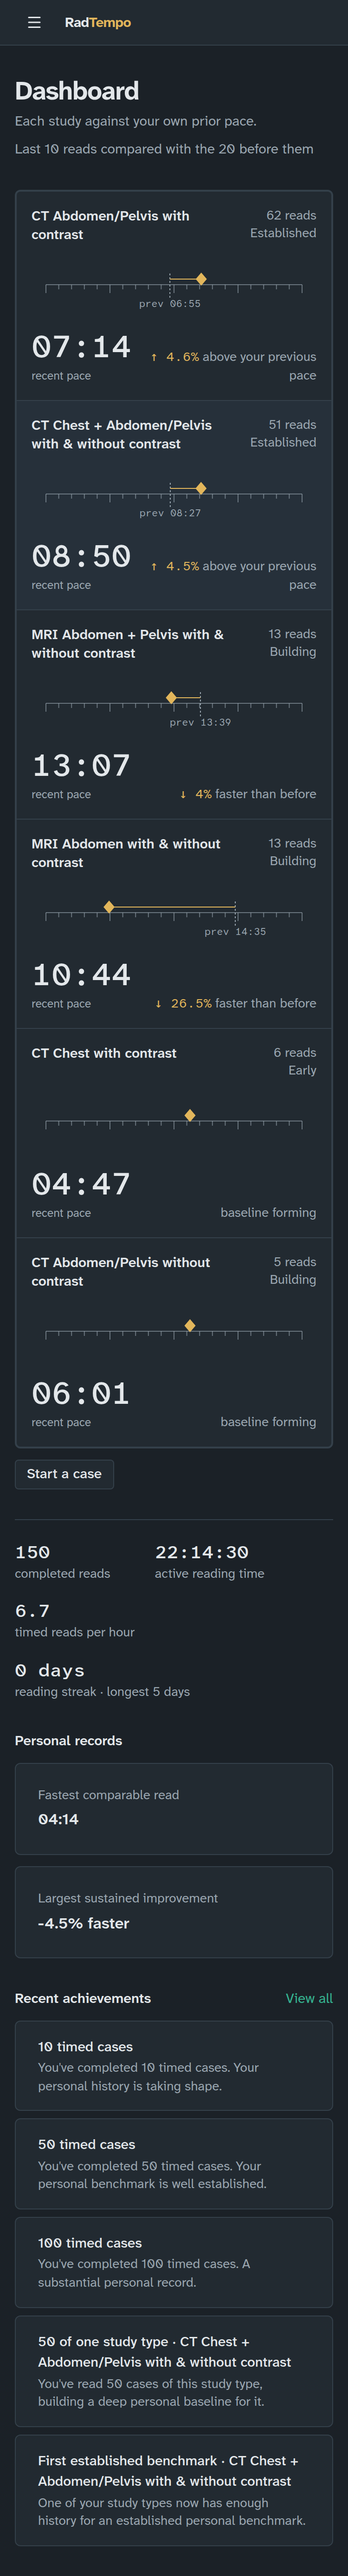
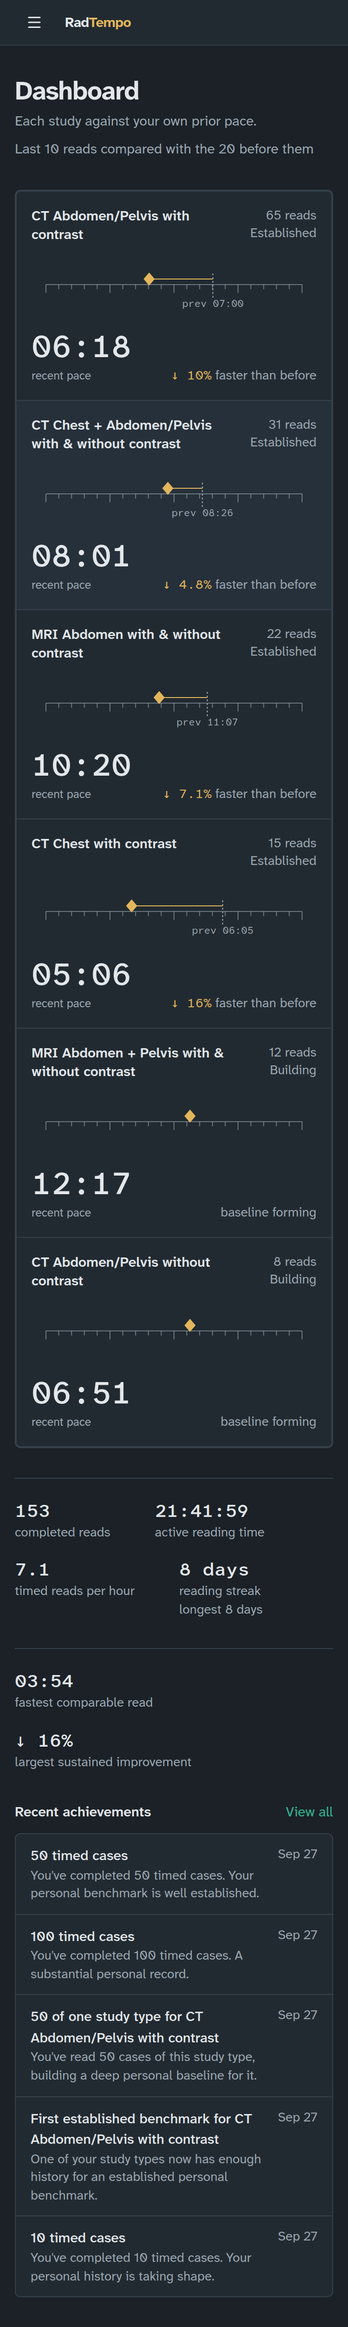
Dashboard: records, achievements, demo data fixes
Redesign the Dashboard's lower half in the Reading Room language
instead of the SaaS-card kit: personal records become a ruled strip
(mono value over label, matching the overview strip) and recent
achievements become a single hairline list with the date in the
corner, dropping the middle-dot "A · B" join in favor of "for
<study>" or a line break. The floating "Start a case" button under
the grid is removed (the rail nav already has Start).

Fix a bug in personalRecords (src/features/achievements/evaluate.ts):
"largest sustained improvement" could report a negative value (got
slower) when no study had a positive sustained improvement, because
the established-study comparison didn't require improvement > 0. Now
only a genuine improvement is reported; the dashboard falls back to
"no sustained improvement yet" otherwise. Added a regression test.

Re-seeded demo data with a deterministic, windowed dataset (headline
CT A/P +C exactly 10% faster, most other studies improving, 8-day
reading streak through today) and re-captured
docs/design/after/dashboard-{desktop,mobile}-{light,dark}.png; viewed
each, no console errors.

diff --git a/src/app/(app)/dashboard/page.tsx b/src/app/(app)/dashboard/page.tsx
@@ -11,6 +11,11 @@ import { Viewport, ViewportGrid } from "@/components/viewport";
 import { Caliper } from "@/components/caliper";
 import { Duration } from "@/components/duration";
 
+const achievementDateFormatter = new Intl.DateTimeFormat("en-US", {
+  month: "short",
+  day: "numeric",
+});
+
 const MATURITY_LABEL: Record<string, string> = {
   NONE: "No history yet",
   EARLY: "Early",
@@ -129,11 +134,6 @@ export default async function DashboardPage() {
             );
           })}
         </ViewportGrid>
-        <div className="mt-3">
-          <Button asChild variant="secondary" size="sm">
-            <Link href="/">Start a case</Link>
-          </Button>
-        </div>
       </section>
 
       <section
@@ -166,44 +166,41 @@ export default async function DashboardPage() {
             {overview.readingDayStreak.current === 1 ? "" : "s"}
           </Duration>
           <p className="text-xs text-muted">
-            reading streak · longest {overview.readingDayStreak.longest} day
+            reading streak
+            <br />
+            longest {overview.readingDayStreak.longest} day
             {overview.readingDayStreak.longest === 1 ? "" : "s"}
           </p>
         </div>
       </section>
 
-      <section aria-label="Personal records">
-        <h2 className="mb-3 text-sm font-semibold text-foreground">
-          Personal records
-        </h2>
-        <div className="grid gap-3 sm:grid-cols-2">
-          <Card>
-            <CardContent className="flex flex-col gap-1 pt-6">
-              <p className="text-xs text-muted">Fastest comparable read</p>
-              <p className="text-md font-semibold text-foreground">
-                {data.personalRecords.fastestEligibleRead
-                  ? formatDuration(
-                      data.personalRecords.fastestEligibleRead.adjustedMs,
-                    )
-                  : "Not established yet"}
-              </p>
-            </CardContent>
-          </Card>
-          <Card>
-            <CardContent className="flex flex-col gap-1 pt-6">
-              <p className="text-xs text-muted">
-                Largest sustained improvement
-              </p>
-              <p className="text-md font-semibold text-foreground">
-                {data.personalRecords.largestSustainedImprovement
-                  ? `${formatPercent(
-                      data.personalRecords.largestSustainedImprovement
-                        .improvement,
-                    )}% faster`
-                  : "Not established yet"}
-              </p>
-            </CardContent>
-          </Card>
+      <section
+        aria-label="Personal records"
+        className="flex flex-wrap gap-x-12 gap-y-4 border-t border-border pt-5"
+      >
+        <div>
+          <Duration className="block text-lg font-medium">
+            {data.personalRecords.fastestEligibleRead
+              ? formatDuration(
+                  data.personalRecords.fastestEligibleRead.adjustedMs,
+                )
+              : "—"}
+          </Duration>
+          <p className="text-xs text-muted">fastest comparable read</p>
+        </div>
+        <div>
+          <Duration className="block text-lg font-medium">
+            {data.personalRecords.largestSustainedImprovement
+              ? `↓ ${formatPercent(
+                  data.personalRecords.largestSustainedImprovement.improvement,
+                )}%`
+              : "—"}
+          </Duration>
+          <p className="text-xs text-muted">
+            {data.personalRecords.largestSustainedImprovement
+              ? "largest sustained improvement"
+              : "no sustained improvement yet"}
+          </p>
         </div>
       </section>
 
@@ -224,21 +221,27 @@ export default async function DashboardPage() {
             No achievements yet — they will appear here as you build a history.
           </p>
         ) : (
-          <ul className="flex flex-col gap-2">
-            {data.recentAchievements.map((a) => (
-              <li key={`${a.key}-${a.studyTypeId ?? "global"}`}>
-                <Card>
-                  <CardContent className="flex flex-col gap-0.5 py-4">
+          <div className="rounded-lg border border-border bg-card">
+            <ul>
+              {data.recentAchievements.map((a) => (
+                <li
+                  key={`${a.key}-${a.studyTypeId ?? "global"}`}
+                  className="flex items-start justify-between gap-4 border-b border-border px-4 py-3 last:border-0 sm:px-5"
+                >
+                  <div>
                     <p className="text-sm font-medium text-foreground">
                       {a.title}
-                      {a.studyName ? ` · ${a.studyName}` : ""}
+                      {a.studyName ? ` for ${a.studyName}` : ""}
                     </p>
                     <p className="text-xs text-muted">{a.description}</p>
-                  </CardContent>
-                </Card>
-              </li>
-            ))}
-          </ul>
+                  </div>
+                  <p className="shrink-0 text-xs text-muted">
+                    {achievementDateFormatter.format(a.earnedAt)}
+                  </p>
+                </li>
+              ))}
+            </ul>
+          </div>
         )}
       </section>
     </div>

diff --git a/src/features/achievements/evaluate.test.ts b/src/features/achievements/evaluate.test.ts
@@ -281,6 +281,27 @@ describe("personalRecords", () => {
     );
   });
 
+  it("does not report a negative largest sustained improvement (got slower)", () => {
+    const fast = Array.from({ length: 10 }, (_, i) =>
+      mkCase({
+        studyTypeId: "ct-ap",
+        finishedAt: daysFrom(BASE, i),
+        durationMs: 800_000,
+      }),
+    );
+    const slow = Array.from({ length: 10 }, (_, i) =>
+      mkCase({
+        studyTypeId: "ct-ap",
+        finishedAt: daysFrom(BASE, 10 + i),
+        durationMs: 1_000_000,
+      }),
+    );
+    const cases = [...fast, ...slow];
+    const stats = buildStats(cases);
+    const records = personalRecords(cases, stats, IDENTITY_FACTORS);
+    expect(records.largestSustainedImprovement).toBeNull();
+  });
+
   it("returns null records when there is no data", () => {
     const records = personalRecords([], {}, IDENTITY_FACTORS);
     expect(records.fastestEligibleRead).toBeNull();

diff --git a/src/features/achievements/evaluate.ts b/src/features/achievements/evaluate.ts
@@ -154,7 +154,11 @@ export function personalRecords(
   let largestSustainedImprovement: PersonalRecords["largestSustainedImprovement"] =
     null;
   for (const [studyTypeId, stats] of Object.entries(statsByStudy)) {
-    if (stats.maturity !== "ESTABLISHED" || stats.improvement === null)
+    if (
+      stats.maturity !== "ESTABLISHED" ||
+      stats.improvement === null ||
+      stats.improvement <= 0
+    )
       continue;
     if (
       largestSustainedImprovement === null ||
